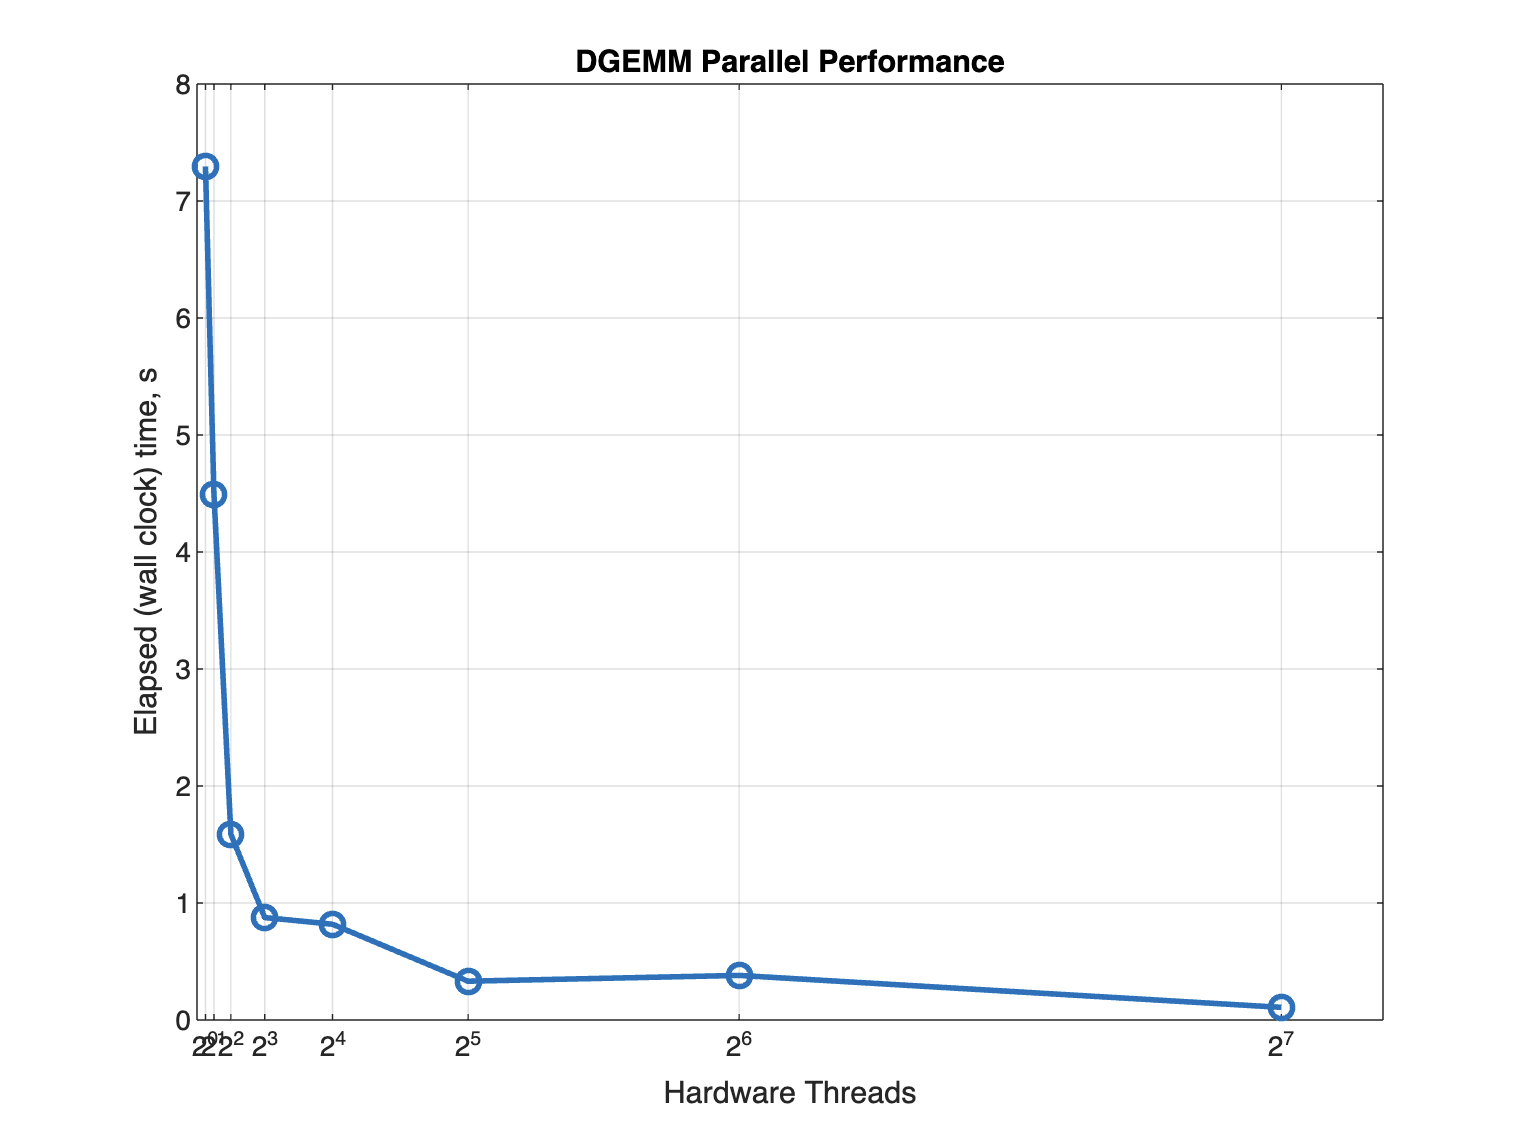
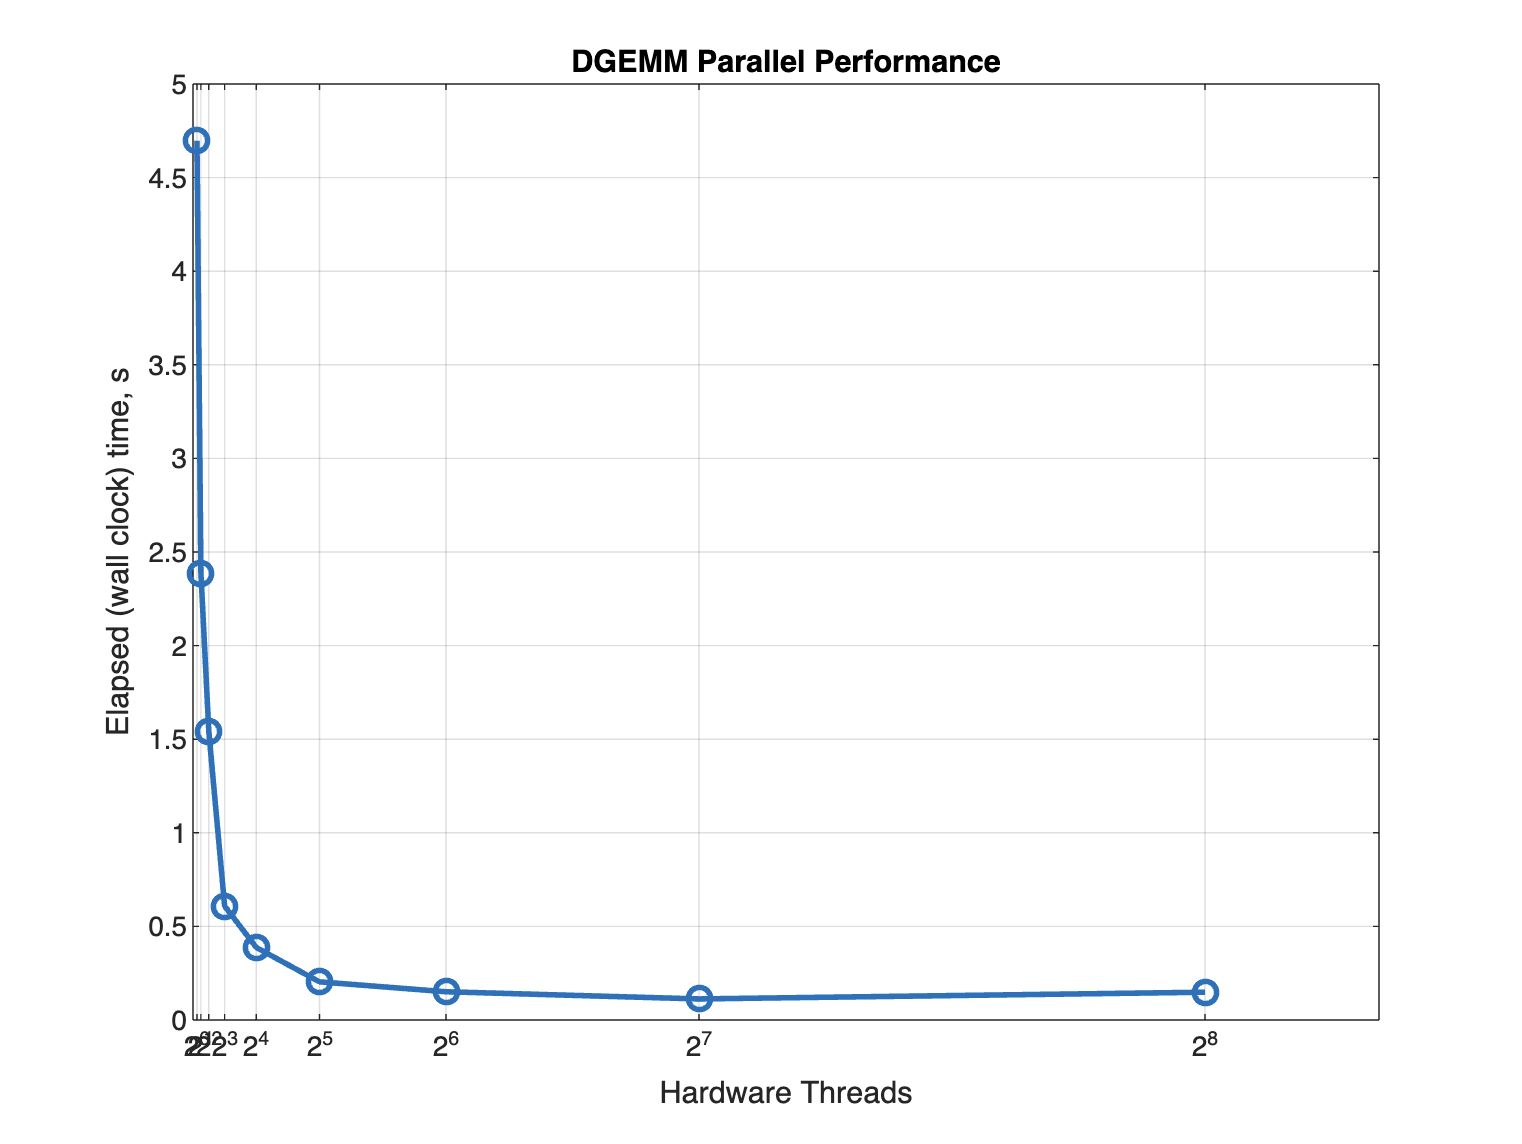
Update matlab code and images

diff --git a/P01/HW1.m b/P01/HW1.m
@@ -1,5 +1,5 @@
-threads = [1, 2, 4, 8, 16, 32, 64, 128]; % Powers of 2
-time = [7.295530, 4.491734, 1.587605, 0.875662, 0.818440, 0.331504, 0.381048, 0.107883];
+threads = [1, 2, 4, 8, 16, 32, 64, 128, 256]; % Powers of 2
+time = [4.697196, 2.387700, 1.541056, 0.608784, 0.387454, 0.203777, 0.150876, 0.112527, 0.148393];
 
 % Plot settings
 figure;
@@ -10,5 +10,5 @@ title('DGEMM Parallel Performance');
 grid on;
 
 % Customize axis ticks to match power-of-2 spacing
-set(gca, 'xtick', 2.^(0:7));
-set(gca, 'xticklabels', {'2^0', '2^1', '2^2', '2^3', '2^4', '2^5', '2^6', '2^7'});
+set(gca, 'xtick', 2.^(0:8));
+set(gca, 'xticklabels', {'2^0', '2^1', '2^2', '2^3', '2^4', '2^5', '2^6', '2^7', '2^8'});
